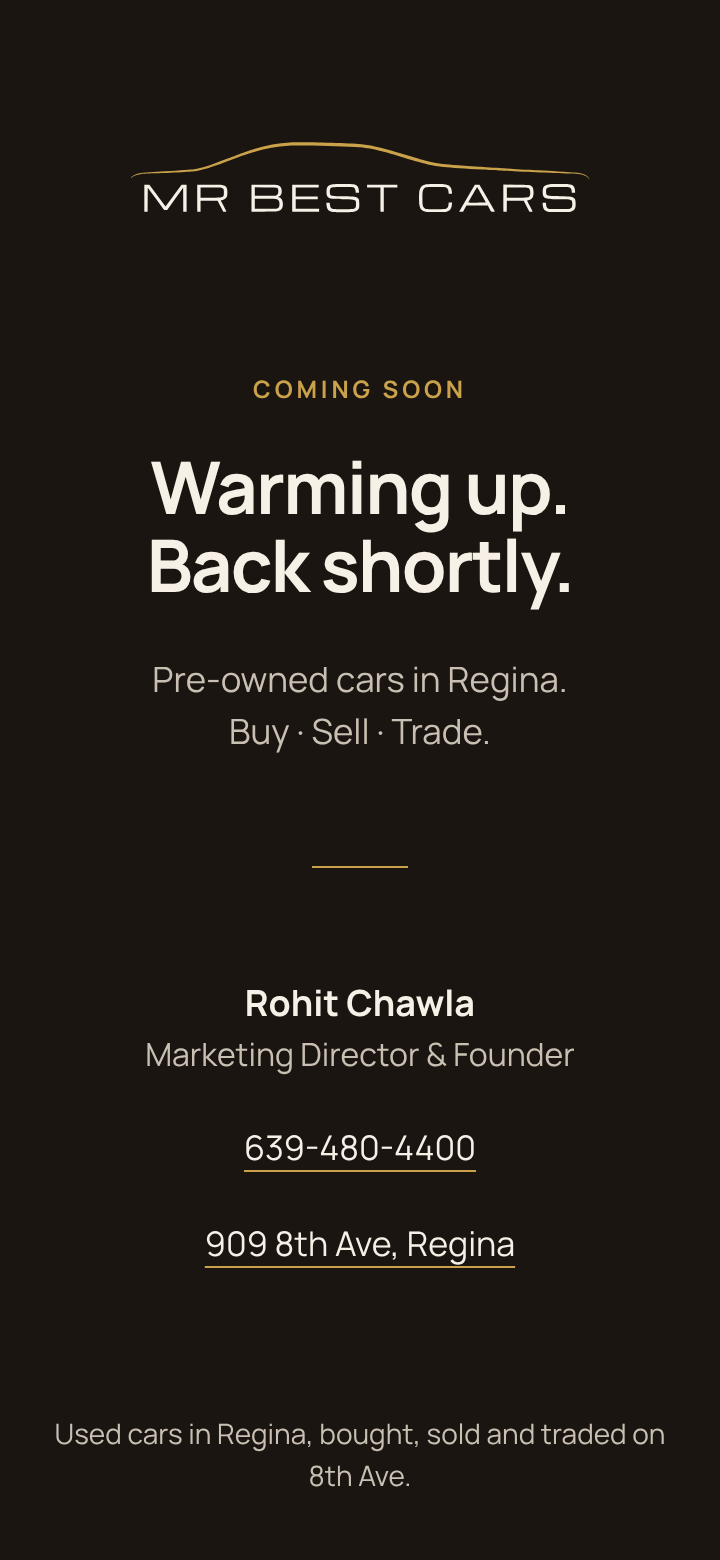
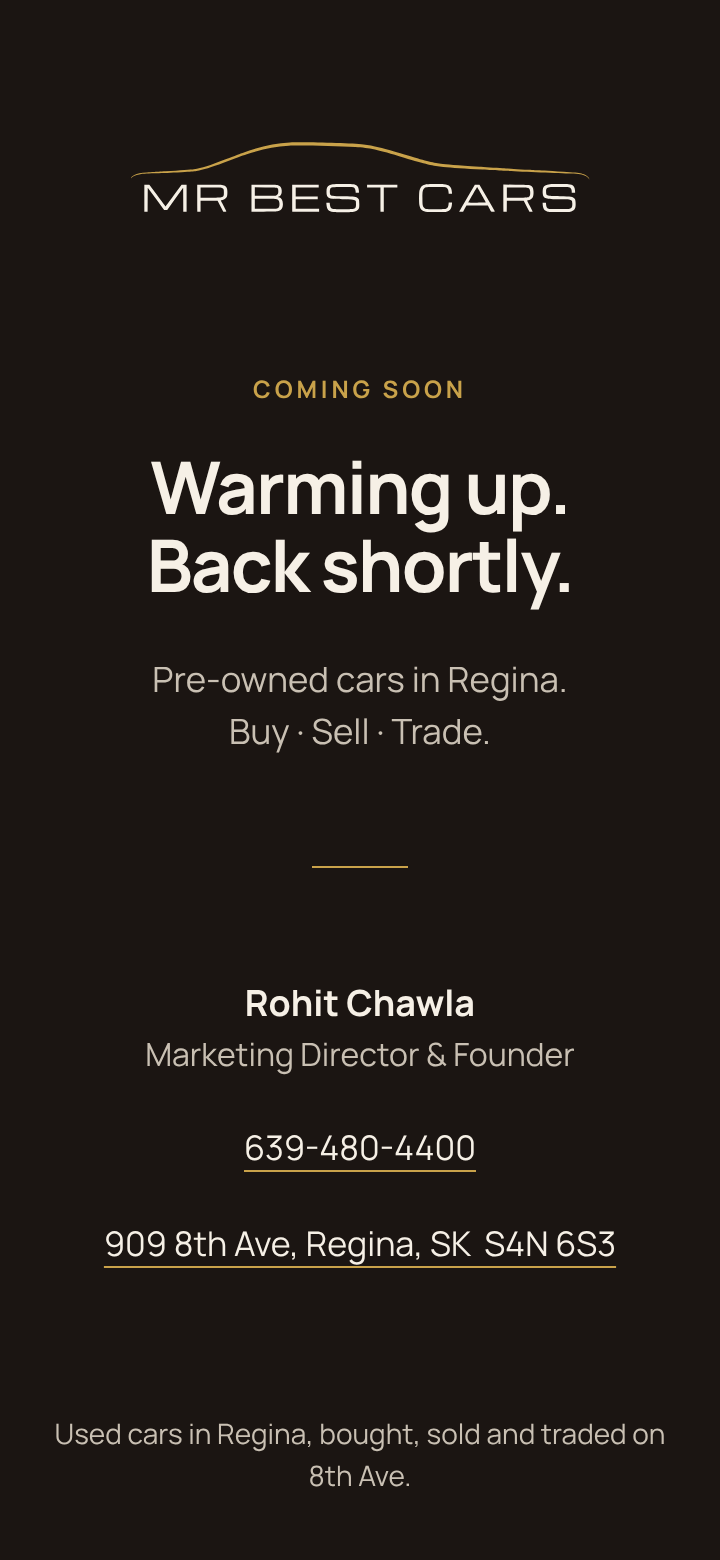
Use full address with postal code: 909 8th Ave, Regina, SK  S4N 6S3
Visible text, maps link and JSON-LD updated; screenshots and notes refreshed.

Claude-Session: https://claude.ai/code/session_0111nycAP5oJUybwEeT2RRwK

Changed region(s): [[0.2444, 0.7692, 0.8556, 0.8308], [0.1528, 0.7692, 0.2139, 0.8308]]

diff --git a/site/swym/index.html b/site/swym/index.html
@@ -60,7 +60,7 @@ html.intro #roofline-center{stroke-dasharray:1 1;stroke-dashoffset:1;animation:m
 @media (prefers-reduced-motion:reduce){html.intro .veil{display:none}html.intro .letter{opacity:1}html.intro #roofline-center{stroke-dashoffset:0}}
 </style>
 <script type="application/ld+json">
-{"@context":"https://schema.org","@type":"AutoDealer","name":"Mr Best Cars","description":"Pre-owned cars in Regina. Buy · Sell · Trade.","url":"https://jayantarora.in/swym/","image":"https://jayantarora.in/swym/assets/og-image.png","telephone":"+1-639-480-4400","address":{"@type":"PostalAddress","streetAddress":"909 8th Ave","addressLocality":"Regina","addressRegion":"SK","addressCountry":"CA"},"founder":{"@type":"Person","name":"Rohit Chawla","jobTitle":"Marketing Director & Founder"}}
+{"@context":"https://schema.org","@type":"AutoDealer","name":"Mr Best Cars","description":"Pre-owned cars in Regina. Buy · Sell · Trade.","url":"https://jayantarora.in/swym/","image":"https://jayantarora.in/swym/assets/og-image.png","telephone":"+1-639-480-4400","address":{"@type":"PostalAddress","streetAddress":"909 8th Ave","postalCode":"S4N 6S3","addressLocality":"Regina","addressRegion":"SK","addressCountry":"CA"},"founder":{"@type":"Person","name":"Rohit Chawla","jobTitle":"Marketing Director & Founder"}}
 </script>
 </head>
 <body>
@@ -100,7 +100,7 @@ html.intro #roofline-center{stroke-dasharray:1 1;stroke-dashoffset:1;animation:m
     <p class="role">Marketing Director &amp; Founder</p>
     <ul class="links">
       <li><a href="tel:+16394804400">639-480-4400</a></li>
-      <li><a href="https://www.google.com/maps/search/?api=1&amp;query=909%208th%20Ave%2C%20Regina%2C%20SK">909 8th Ave, Regina</a></li>
+      <li><a href="https://www.google.com/maps/search/?api=1&amp;query=909%208th%20Ave%2C%20Regina%2C%20SK%20S4N%206S3">909 8th Ave, Regina, SK&nbsp;&nbsp;S4N&nbsp;6S3</a></li>
     </ul>
   </address>
 </main>

diff --git a/deliverables/NOTES.md b/deliverables/NOTES.md
@@ -30,7 +30,7 @@ The folder `site/swym/` can also be deployed as-is to any static host.
 3. **Two different headings in the brief.** "Page content" asks for the heading "Coming soon"; "Copy and SEO" asks for "Warming up. Back shortly." The h1 is "Warming up. Back shortly." and "Coming soon" sits above it as a short gold label.
 4. **SEO phrases.** "pre-owned cars Regina" appears through the given line "Pre-owned cars in Regina." For "used cars Regina" I added one footer line: "Used cars in Regina, bought, sold and traded on 8th Ave." "used cars Regina" without "in" does not read naturally. This is the only text added beyond the specified content.
 5. **"Kilometres"** does not appear: nothing on the page refers to distance, and adding it would mean inventing content.
-6. **Address.** The address is used exactly as given: "909 8th Ave, Regina", with "SK" and "CA" added in the maps query and JSON-LD. Regina has more than one 8th Avenue (for example, 8th Ave N), and I could not confirm which is meant or the postal code, so none is included.
+6. **Address.** Confirmed by the client: 909 8th Ave, Regina, SK  S4N 6S3. It appears on the page, in the maps link and in the JSON-LD (with the postal code). The meta description keeps the brief's wording, "909 8th Ave, Regina".
 7. **JSON-LD type.** The type is `AutoDealer`, which is a schema.org subtype of `LocalBusiness`. It contains only the name, phone, address, URL, image and founder with job title.
 8. **Canonical and OG URLs** are set to `https://jayantarora.in/swym/`. If the site moves to its own domain, update `canonical`, `og:url`, `og:image` and the JSON-LD `url` and `image`.
 9. **Font loading** uses `font-display: optional` with a preload, so the layout never shifts. On a very slow first visit the system font may show until the next page load.
